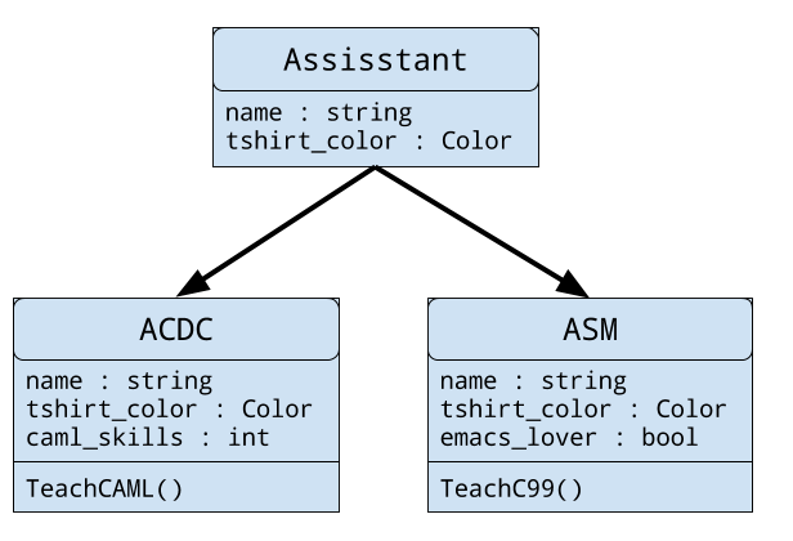
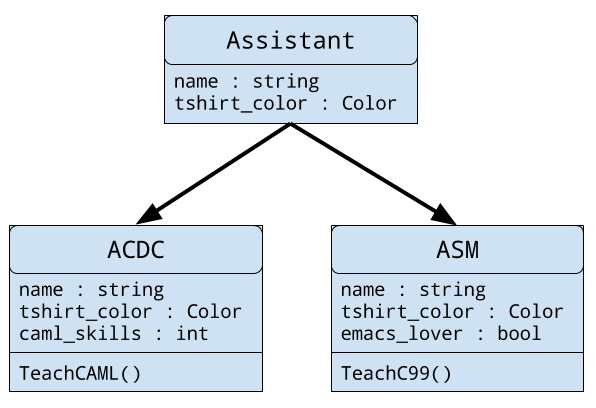
Fixed some grammar mistakes and typos

Changed region(s): [[0.0, 0.0294, 0.9966, 0.9706]]

diff --git a/slides.md b/slides.md
@@ -896,8 +896,8 @@ public class ACDC {
 }
 ```
 
-> - We want `name` and `thsirtName` to be equal at any time
-> - If someone modify `name`, `tshirtName` will not be updated
+> - We want `name` and `tshirtName` to be equal at any time
+> - If someone modifies `name`, `tshirtName` will not be updated
 > - We do not want another class to see what's in `intranetPassword`
 > - Solution: visibility attributes
 
@@ -932,8 +932,8 @@ public class ACDC {
 
 ## The Problem
 
-> - Suppose we want to write a class ASM
-> - It has to share properties with the class ACDC
+> - Suppose we want to write an ASM class
+> - It has to share properties with the ACDC class
 > - It also has to implement its own new properties
 > - Repetitive code...
 > - That's why inheritance exists
@@ -948,7 +948,7 @@ public class ACDC {
 
 ## Visual example
 
-![ACDC and ASM shared the attributes of Assistant](img/inheritance.png)
+![ACDC and ASM shares the attributes of Assistant](img/inheritance.png)
 
 ## In Code
 
